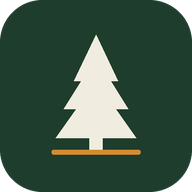
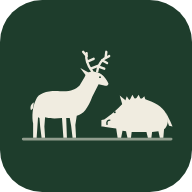
Hirsch und Wildschwein statt Baum (App-Symbol und Startseite), Version 1.4
Claude-Session: https://claude.ai/code/session_014VAtzQWDM6aKfPUvUN9ENA

diff --git a/index.html b/index.html
@@ -70,7 +70,10 @@ header.top .wrap{display:flex;align-items:center;gap:12px;padding-block:14px 18p
 .tag.fall{background:color-mix(in srgb,var(--danger) 15%,transparent);color:var(--danger)}
 
 .empty{text-align:center;color:var(--muted);padding:36px 12px 12px}
-.empty svg{width:64px;height:64px;opacity:.5}
+.tiere{display:block;color:var(--forest);--tusk:var(--bg);overflow:visible}
+.tiere.big{width:min(260px,80%);height:auto;margin:0 auto 8px}
+.tiere.foot{width:150px;height:auto;margin:32px auto 0;opacity:.35}
+@media (prefers-color-scheme:dark){.tiere{color:var(--muted)}}
 .empty p{max-width:30ch;margin:8px auto}
 
 .spacer{height:calc(110px + env(safe-area-inset-bottom))}
@@ -175,6 +178,7 @@ details.more .inner{padding:0 16px 16px;display:flex;flex-direction:column;gap:1
   <div class="summary" id="summary"></div>
   <button class="add" id="addBtn"><svg viewBox="0 0 24 24" fill="none" stroke="currentColor" stroke-width="2.6" stroke-linecap="round"><path d="M12 5v14M5 12h14"/></svg>Abschuss eintragen</button>
   <div id="entries"></div>
+  <svg class="tiere foot" id="tiereFoot" aria-hidden="true" viewBox="0 -6 240 134"><g fill="currentColor"><path d="M34 66 C38 56 52 53 68 54 C82 55 90 52 96 46 L103 34 C105 28 110 25 116 26 L124 28 C128 30 132 34 135 39 L137 43 C137 46 134 47 131 46 L123 44 C120 50 117 56 114 62 C111 70 108 76 104 81 C101 85 96 88 92 89 L90 102 L91 120 L86 120 L84 103 L82 92 L77 92 L78 120 L73 120 L71 92 C62 93 54 93 47 91 L46 104 L47 120 L42 120 L40 104 L39 92 L37 91 L35 120 L30 120 L30 100 C28 90 29 76 34 66 Z"/><path d="M31 70 C27 72 25 77 27 81 L30 78 Z"/><path d="M110 28 L97 21 L106 33 Z"/><path d="M100 44 L96 56 L102 50 L101 60 L106 52 Z"/></g><g fill="none" stroke="currentColor" stroke-width="3.4" stroke-linecap="round" stroke-linejoin="round"><path d="M114 26 C108 18 104 10 106 0"/><path d="M112 22 L122 18"/><path d="M107 12 L116 8"/><path d="M106 4 L101 -2"/><path d="M121 26 C122 16 128 8 138 4"/><path d="M123 19 L131 22"/><path d="M128 10 L135 14"/><path d="M133 6 L134 -2"/></g><g fill="currentColor"><path d="M127 95 L131 94 C139 89 149 80 158 71 C168 63 182 62 194 67 C207 72 216 78 220 88 C223 96 221 104 216 108 L215 120 L210 120 L208 111 L199 112 L198 120 L193 120 L191 112 L170 112 L169 120 L164 120 L162 111 L157 110 L155 120 L150 120 L148 107 C141 106 134 105 129 104 L127 104 Z"/><path d="M157 74 L153 60 L165 70 Z"/><path d="M160 70 L163 61 L167 67 L171 59 L175 66 L180 59 L183 66 L188 61 L190 68 Z"/><path d="M219 85 L225 97 L228 104 L223 103 L221 97 Z"/></g><path d="M135 101 C134 97 136 95 139 95" fill="none" stroke="var(--tusk, #f3efe3)" stroke-width="2" stroke-linecap="round"/><circle cx="146" cy="84" r="1.4" fill="var(--tusk, #f3efe3)"/><circle cx="125" cy="34" r="1.3" fill="var(--tusk, #f3efe3)"/><rect x="14" y="120" width="214" height="4" rx="2" fill="currentColor" opacity=".55"/></svg>
   <button class="helplink" id="openHelp"><svg viewBox="0 0 24 24" fill="none" stroke="currentColor" stroke-width="2" stroke-linecap="round" stroke-linejoin="round"><circle cx="12" cy="12" r="10"/><path d="M9.1 9a3 3 0 0 1 5.8 1c0 2-3 3-3 3M12 17h.01"/></svg>Problem? Hilfe anfordern</button>
   <p class="ver" id="verMain"></p>
   <div class="spacer"></div>
@@ -445,8 +449,9 @@ function render(){
   $('#summary').hidden = list.length===0;
 
   const box = $('#entries');
+  $('#tiereFoot').style.display = list.length ? '' : 'none';
   if(!list.length){
-    box.innerHTML = `<div class="empty"><svg viewBox="0 0 24 24" fill="none" stroke="currentColor" stroke-width="1.5" stroke-linejoin="round"><path d="M12 2l5 7h-3l4 6h-3l3 5H6l3-5H6l4-6H7z"/><path d="M12 20v2"/></svg>
+    box.innerHTML = `<div class="empty"><svg class="tiere big" aria-hidden="true" viewBox="0 -6 240 134"><g fill="currentColor"><path d="M34 66 C38 56 52 53 68 54 C82 55 90 52 96 46 L103 34 C105 28 110 25 116 26 L124 28 C128 30 132 34 135 39 L137 43 C137 46 134 47 131 46 L123 44 C120 50 117 56 114 62 C111 70 108 76 104 81 C101 85 96 88 92 89 L90 102 L91 120 L86 120 L84 103 L82 92 L77 92 L78 120 L73 120 L71 92 C62 93 54 93 47 91 L46 104 L47 120 L42 120 L40 104 L39 92 L37 91 L35 120 L30 120 L30 100 C28 90 29 76 34 66 Z"/><path d="M31 70 C27 72 25 77 27 81 L30 78 Z"/><path d="M110 28 L97 21 L106 33 Z"/><path d="M100 44 L96 56 L102 50 L101 60 L106 52 Z"/></g><g fill="none" stroke="currentColor" stroke-width="3.4" stroke-linecap="round" stroke-linejoin="round"><path d="M114 26 C108 18 104 10 106 0"/><path d="M112 22 L122 18"/><path d="M107 12 L116 8"/><path d="M106 4 L101 -2"/><path d="M121 26 C122 16 128 8 138 4"/><path d="M123 19 L131 22"/><path d="M128 10 L135 14"/><path d="M133 6 L134 -2"/></g><g fill="currentColor"><path d="M127 95 L131 94 C139 89 149 80 158 71 C168 63 182 62 194 67 C207 72 216 78 220 88 C223 96 221 104 216 108 L215 120 L210 120 L208 111 L199 112 L198 120 L193 120 L191 112 L170 112 L169 120 L164 120 L162 111 L157 110 L155 120 L150 120 L148 107 C141 106 134 105 129 104 L127 104 Z"/><path d="M157 74 L153 60 L165 70 Z"/><path d="M160 70 L163 61 L167 67 L171 59 L175 66 L180 59 L183 66 L188 61 L190 68 Z"/><path d="M219 85 L225 97 L228 104 L223 103 L221 97 Z"/></g><path d="M135 101 C134 97 136 95 139 95" fill="none" stroke="var(--tusk, #f3efe3)" stroke-width="2" stroke-linecap="round"/><circle cx="146" cy="84" r="1.4" fill="var(--tusk, #f3efe3)"/><circle cx="125" cy="34" r="1.3" fill="var(--tusk, #f3efe3)"/><rect x="14" y="120" width="214" height="4" rx="2" fill="currentColor" opacity=".55"/></svg>
       <p><b>Noch keine Einträge im Jagdjahr ${jyLabel(year)}${f!=='alle'&&multiRev()?' für '+esc(revName(f)):''}.</b></p><p>Tippen Sie auf „Abschuss eintragen“. Das geht auch ohne Netz.</p></div>`;
     return;
   }
@@ -774,7 +779,7 @@ window.addEventListener('beforeinstallprompt',e=>{ e.preventDefault(); installEv
 $('#installBtn').onclick=async()=>{ if(!installEvt) return; installEvt.prompt(); await installEvt.userChoice; installEvt=null; $('#installBtn').hidden=true; };
 
 /* ---------- Hilfe-Tickets ---------- */
-const APP_VERSION='1.3';
+const APP_VERSION='1.4';
 const APP_DATE='27.11.2026';
 const REPO='benjaminknackmuss-cmd/streckenliste';
 const TKEY='streckenliste.tickets.v1';

diff --git a/sw.js b/sw.js
@@ -1,5 +1,5 @@
 // Offline-Cache: App läuft im Revier auch ohne Netz.
-const CACHE = 'streckenliste-v3';
+const CACHE = 'streckenliste-v4';
 const FILES = ['./', 'index.html', 'manifest.webmanifest', 'icon-192.png', 'icon-512.png', 'icon-maskable.png', 'apple-touch-icon.png',
   'vendor/jspdf.umd.min.js', 'vendor/jspdf.plugin.autotable.min.js'];
 self.addEventListener('install', e => { e.waitUntil(caches.open(CACHE).then(c => c.addAll(FILES))); self.skipWaiting(); });
